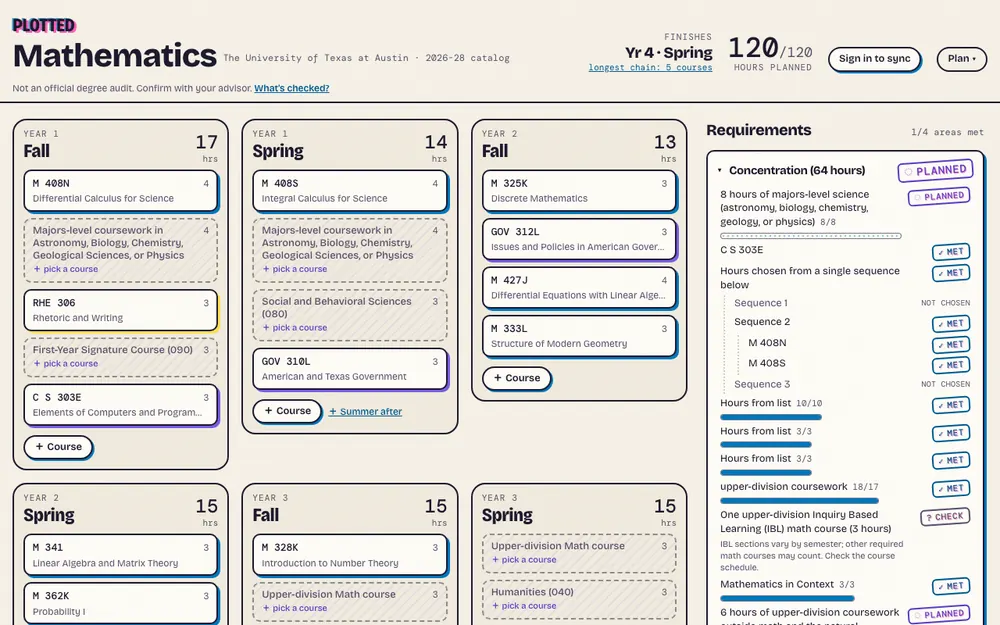
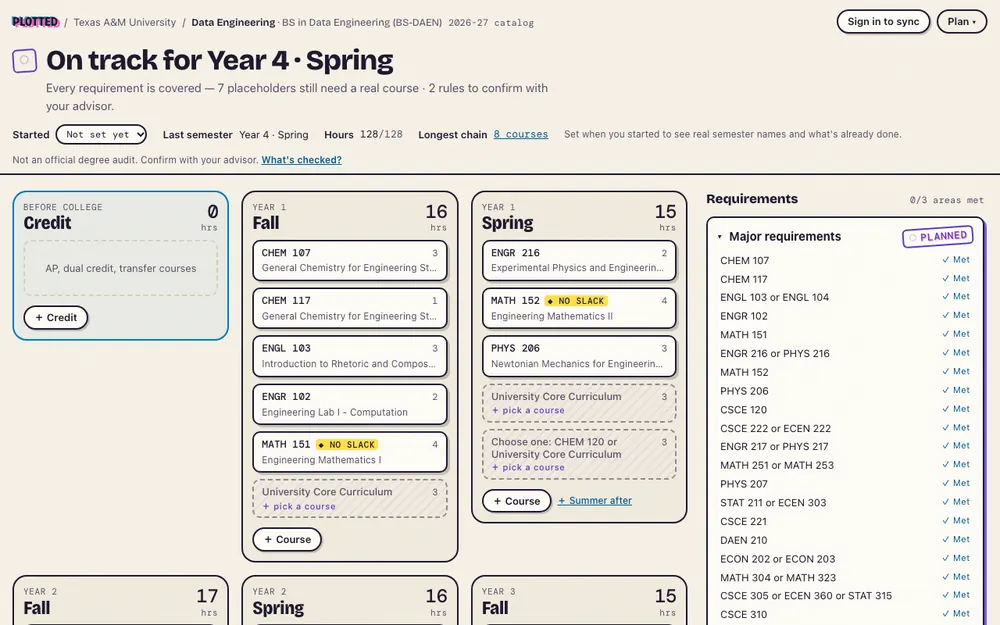
Update projects: MarketLens live, new InvestEdge and Plotted screenshots
- MarketLens: v1 shipped on Fly.io; rewrite card, Live stamp, Fig. 4
  screenshot, built-with tags, add to Fig. 1 Shipped station
- InvestEdge: Recording Drum redesign screenshot (Fig. 2) and copy
- Plotted: refreshed Fig. 3 showing the v2 answer line
- Tracing keeps skill-card text at AA contrast

Changed region(s): [[0.0, 0.0, 1.0, 1.0], [0.589, 0.0, 0.992, 0.1216]]

diff --git a/index.html b/index.html
@@ -59,7 +59,7 @@
       <div class="margin" aria-hidden="true"><span class="t-mono">§ 1</span></div>
       <div class="main">
         <h2 id="work-title" class="t-h2">Selected work</h2>
-        <p>Three projects, with honest status. The colored lines show which of my skills built each one.</p>
+        <p>Three shipped projects. The colored lines show which of my skills built each one.</p>
       </div>
     </div>
 
@@ -72,10 +72,10 @@
       <div class="main">
         <h3 class="t-h3">InvestEdge</h3>
         <p class="summary">Forecasting, honestly. An educational stock app that runs four forecasting models on every S&amp;P&nbsp;500 stock, then replays a year of their old forecasts against what really happened.</p>
-        <p class="detail t-small">Nightly GitHub Actions pipeline → DuckDB → ~3,000 static JSON files → React on GitHub Pages. ARIMA, ETS, Prophet and GARCH, backtested with a leakage test. Signature interaction, “Rewind &amp; Release”: drag back in time and watch reality draw itself through the fan of forecasts. Optional Claude tutor that looks numbers up instead of guessing and declines buy/sell questions.</p>
+        <p class="detail t-small">Nightly GitHub Actions pipeline → DuckDB → ~3,000 static JSON files → React on GitHub Pages. ARIMA, ETS, Prophet and GARCH, backtested with a leakage test. Signature interaction, “Rewind &amp; Release”: the chart works like a barograph drum. Drag or flick it back to a past forecast date (1:1 tracking, spring snap, rubber-band ends), and the models’ futures are pencilled in while reality inks itself through them. An outlook strip counts how many of those futures end higher, next to the model’s real track record. Optional Claude tutor that looks numbers up instead of guessing and declines buy/sell questions.</p>
         <figure>
-          <img src="assets/rewind-and-release.jpg" width="800" height="500" alt="InvestEdge chart rewound to a past date, showing a fan of possible futures with the real price drawn through it" loading="lazy" decoding="async">
-          <figcaption class="t-mono">Fig. 2 · Rewind &amp; Release</figcaption>
+          <img src="assets/rewind-and-release.jpg" width="800" height="500" alt="InvestEdge chart turned back to June 3, 2026: a pencilled fan of ARIMA futures with the real price inked through it in violet, and a card noting reality landed inside the 95% range but no closer than the naive guess" loading="lazy" decoding="async">
+          <figcaption class="t-mono">Fig. 2 · Rewind &amp; Release on the recording drum</figcaption>
         </figure>
         <ul class="tags" aria-label="Stack"><li>Python</li><li>DuckDB</li><li>statsforecast · Prophet · arch</li><li>React</li><li>FastAPI</li><li>Claude API</li><li>GitHub Actions</li></ul>
         <p class="built"><span>Built with</span>
@@ -95,10 +95,10 @@
       <div class="main">
         <h3 class="t-h3">Plotted</h3>
         <p class="summary">Plan your degree semester by semester against your school’s real catalog. Starting with UT&nbsp;Austin (Math, CS) and Texas&nbsp;A&amp;M (Data Engineering).</p>
-        <p class="detail t-small">Python scrapers parse CourseLeaf catalogs into rule trees; anything they can’t express goes to a human-reviewed override queue. A TypeScript requirement and prerequisite engine runs in the browser and flags critical paths and graduation delays. Optional Google sign-in and sync on Supabase with row-level-security tests. Lighthouse 100, 0 axe violations.</p>
+        <p class="detail t-small">Python scrapers parse CourseLeaf catalogs into rule trees; anything they can’t express goes to a human-reviewed override queue. A TypeScript requirement and prerequisite engine runs in the browser and flags critical paths and graduation delays. Optional Google sign-in and sync on Supabase with row-level-security tests. Lighthouse 100, 0 axe violations. Now in v2: real start terms, completed semesters and a transfer-credit column.</p>
         <figure>
-          <img src="assets/plotted-planner.webp" width="1000" height="625" alt="Plotted planner for the UT Austin Mathematics degree: semester columns of course stickers, with a requirements checklist stamped Met, Planned and Check" loading="lazy" decoding="async">
-          <figcaption class="t-mono">Fig. 3 · Riso Route planner, UT Math</figcaption>
+          <img src="assets/plotted-planner.webp" width="1000" height="625" alt="Plotted planner for Texas A&amp;M Data Engineering, headed &quot;On track for Year 4 · Spring&quot;, with semester columns of course stickers, two courses flagged No slack, and a requirements checklist marked Met" loading="lazy" decoding="async">
+          <figcaption class="t-mono">Fig. 3 · The answer line, Texas A&amp;M Data Engineering</figcaption>
         </figure>
         <ul class="tags" aria-label="Stack"><li>Next.js</li><li>TypeScript</li><li>zod</li><li>Python scrapers</li><li>Supabase</li><li>Playwright</li></ul>
         <p class="built"><span>Built with</span>
@@ -109,18 +109,26 @@
       </div>
     </article>
 
-    <article class="project entry" id="p-marketlens" data-skills="">
+    <article class="project entry" id="p-marketlens" data-skills="project-manager original-ui">
       <div class="margin">
-        <span class="stamp rebuild">Rebuilding</span>
-        <span class="t-mono" aria-hidden="true">May 2026</span>
+        <span class="stamp live">Live</span>
+        <span class="t-mono" aria-hidden="true">Nov 2026</span>
+        <span class="t-mono" aria-hidden="true">Fig. 4</span>
       </div>
       <div class="main">
         <h3 class="t-h3">MarketLens</h3>
-        <p class="summary">A real-time stock watchlist with candlestick charts, moving averages and live price streaming.</p>
-        <p class="detail t-small">FastAPI backend serving REST and WebSocket routes over yfinance; React + TypeScript front end with TradingView Lightweight Charts; Nginx reverse proxy; one-command Docker Compose. Being rebuilt with a volatility-forecasting component.</p>
-        <ul class="tags" aria-label="Stack"><li>FastAPI</li><li>WebSockets</li><li>React</li><li>TypeScript</li><li>Docker</li></ul>
-        <p class="built">Built by hand, before the toolkit existed.</p>
-        <p class="links"><a href="https://github.com/AnayPatel-P/MarketLens">Source ↗</a></p>
+        <p class="summary">A stock dashboard that writes its own headline. Live watchlist, technical charts and real portfolio P&amp;L, measured against the same money in the S&amp;P&nbsp;500.</p>
+        <p class="detail t-small">Rebuilt from scratch. FastAPI computes indicators and average-cost P&amp;L server-side (Wilder RSI checked against the textbook; Decimal math tested against hand-worked trades). One upstream Alpaca stream fans out to every browser over a shared WebSocket. Watchlists and trades live in Supabase under row-level security, proven by a check against the real project. Scrub the chart and the headline rewrites itself; four switchable “lenses”, all WCAG AA. One-click demo, no sign-up.</p>
+        <figure>
+          <img src="assets/marketlens-analysis.webp" width="1000" height="625" alt="MarketLens analysis view in the Editorial lens: a headline reading &quot;Apple climbed 19% over six months, just below its 52-week high&quot;, a live price, key stats, and a six-month candlestick chart with moving averages, volume and RSI" loading="lazy" decoding="async">
+          <figcaption class="t-mono">Fig. 4 · Self-writing headline, Editorial lens</figcaption>
+        </figure>
+        <ul class="tags" aria-label="Stack"><li>FastAPI</li><li>pandas</li><li>WebSockets</li><li>React</li><li>TypeScript</li><li>Supabase</li><li>Alpaca</li><li>Fly.io</li><li>Playwright</li></ul>
+        <p class="built"><span>Built with</span>
+          <a class="line-tag" style="--c:var(--l-project-manager)" href="#s-project-manager" data-skill="project-manager">project-manager</a>
+          <a class="line-tag" style="--c:var(--l-original-ui)" href="#s-original-ui" data-skill="original-ui">original-ui</a>
+        </p>
+        <p class="links"><a href="https://marketlens-live.fly.dev">Live app ↗</a><a href="https://github.com/AnayPatel-P/MarketLens">Source ↗</a></p>
       </div>
     </article>
   </section>
@@ -149,7 +157,7 @@
             <li>20 Plan: project-manager scopes it into a PRD and gated roadmap.</li>
             <li>30 Design: original-ui creates the concept.</li>
             <li>40 Build: phase by phase, with teach and agent-builder feeding in.</li>
-            <li>50 Shipped: InvestEdge and Plotted.</li>
+            <li>50 Shipped: InvestEdge, Plotted and MarketLens.</li>
           </ol>
         </figure>
 

diff --git a/styles.css b/styles.css
@@ -277,8 +277,11 @@ section.chapter { padding: var(--s9) 0 var(--s8); }
 .skill .route { margin-top: var(--s3); font: 400 .75rem/1.5 var(--f-mono); color: var(--graphite); letter-spacing: .02em; }
 .skill.is-on::before { transform: scaleX(1.5); }
 .skill.is-on .trace { color: var(--c); }
-.skills.is-tracing .skill:not(.is-on) { opacity: .55; }
-.skills .skill { transition: opacity var(--t-fast) var(--ease); }
+/* dim only the line and the name, so body text keeps AA contrast while tracing */
+.skills.is-tracing .skill:not(.is-on)::before { opacity: .25; }
+.skills.is-tracing .skill:not(.is-on) .trace { color: var(--graphite); }
+.skill::before { transition: transform var(--t-fast) var(--ease), opacity var(--t-fast) var(--ease); }
+.skill .trace { transition: color var(--t-fast) var(--ease); }
 
 /* ---------- experience ---------- */
 .job { padding: var(--s6) 0; border-top: 1px solid var(--rule); }

diff --git a/main.js b/main.js
@@ -32,6 +32,7 @@
   const PROJECTS = [
     { name: "InvestEdge", href: "#p-investedge", skills: ["project-manager", "original-ui"] },
     { name: "Plotted",    href: "#p-plotted",    skills: ["project-manager", "original-ui"] },
+    { name: "MarketLens", href: "#p-marketlens", skills: ["project-manager", "original-ui"] },
   ];
 
   const NS = "http://www.w3.org/2000/svg";
@@ -132,7 +133,7 @@
       else {
         const built = PROJECTS.filter((p) => p.skills.includes(skill)).map((p) => p.name);
         const stops = STATIONS.filter((s) => s.skills.includes(skill)).map((s) => s.name);
-        hint.textContent = `${skill}: ${stops.join(" → ")}` + (built.length ? ` · built ${built.join(" & ")}` : "");
+        hint.textContent = `${skill}: ${stops.join(" → ")}` + (built.length ? ` · built ${new Intl.ListFormat("en", { type: "conjunction" }).format(built)}` : "");
       }
     }
   }

diff --git a/docs/pm/STATUS.md b/docs/pm/STATUS.md
@@ -14,6 +14,8 @@
 - 2026-11-17 — Phase 4: perf fix (fonts), favicon, 200%-text nav/button fixes, factual corrections, README.
 - 2026-11-17 — Merged redesign → main (1b6359f) and pushed; GitHub Pages build succeeded; live at https://anaypatel-p.github.io.
 - 2026-11-17 — Plotted v1 confirmed live (plotted-cyan.vercel.app): stamp → Live, live-app link added on site and profile README.
+- 2026-11-17 — MarketLens v1 shipped (marketlens-live.fly.dev, built with project-manager + original-ui): card rewritten, Live stamp, Fig. 4 screenshot, added to Fig. 1 Shipped. Plotted screenshot refreshed (v2 answer line, TAMU Data Engineering). Tracing no longer drops card text below AA contrast.
+- 2026-11-17 — InvestEdge "Recording Drum" redesign deployed (80a19b5); Fig. 2 screenshot and card copy updated to match.
 
 ## PRD acceptance check
 - F1 hero + resume/contact ✅ · F2 projects with honest chips + links ✅ · F3 six skills with excerpts ✅ · F4 pipeline diagram ✅ · F5 skills↔projects tracing ✅ · F6 experience ✅ · F7 light/dark, responsive, reduced motion, a11y ✅ · F8 layered scan/detail ✅
